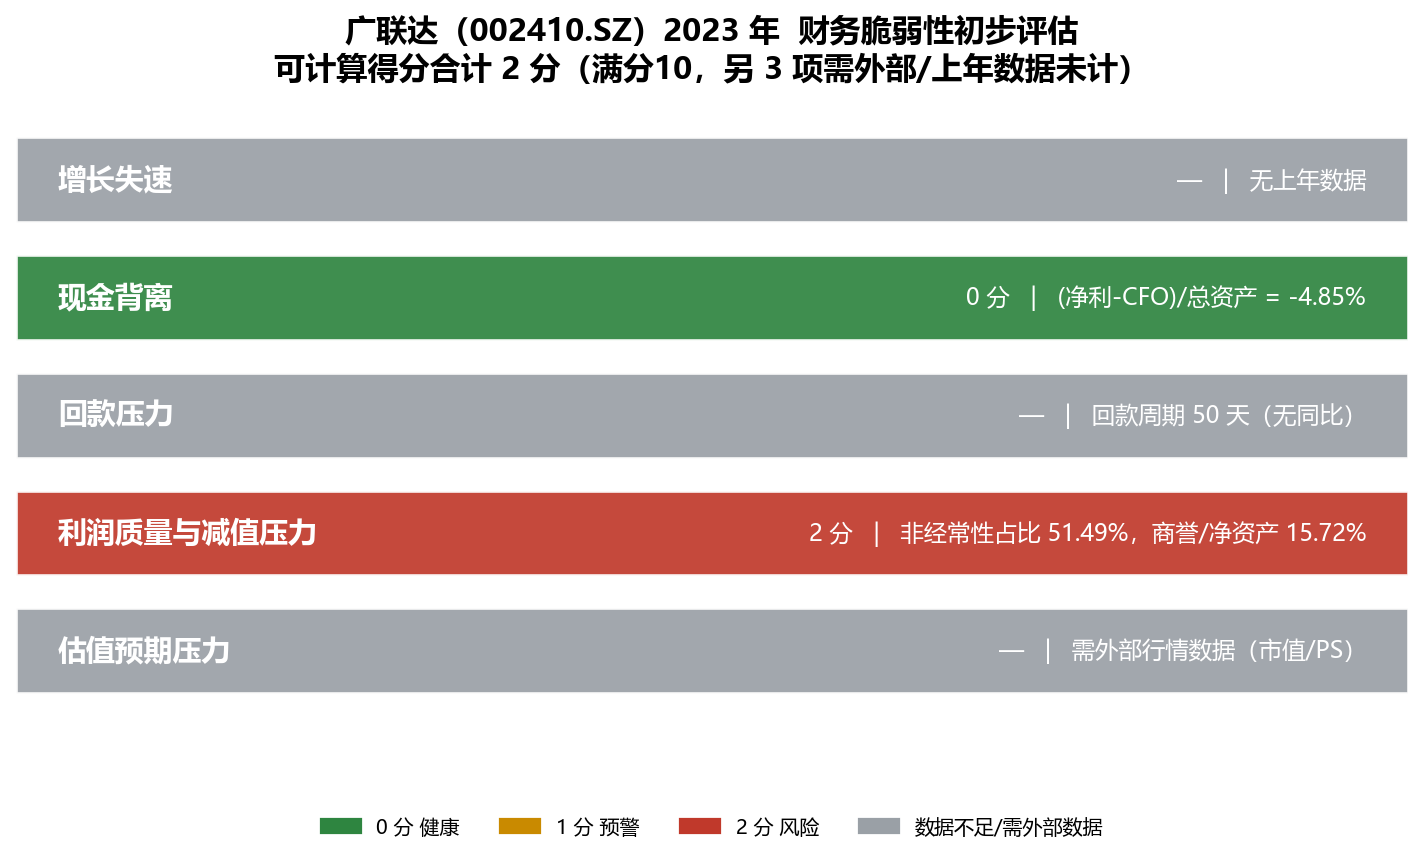
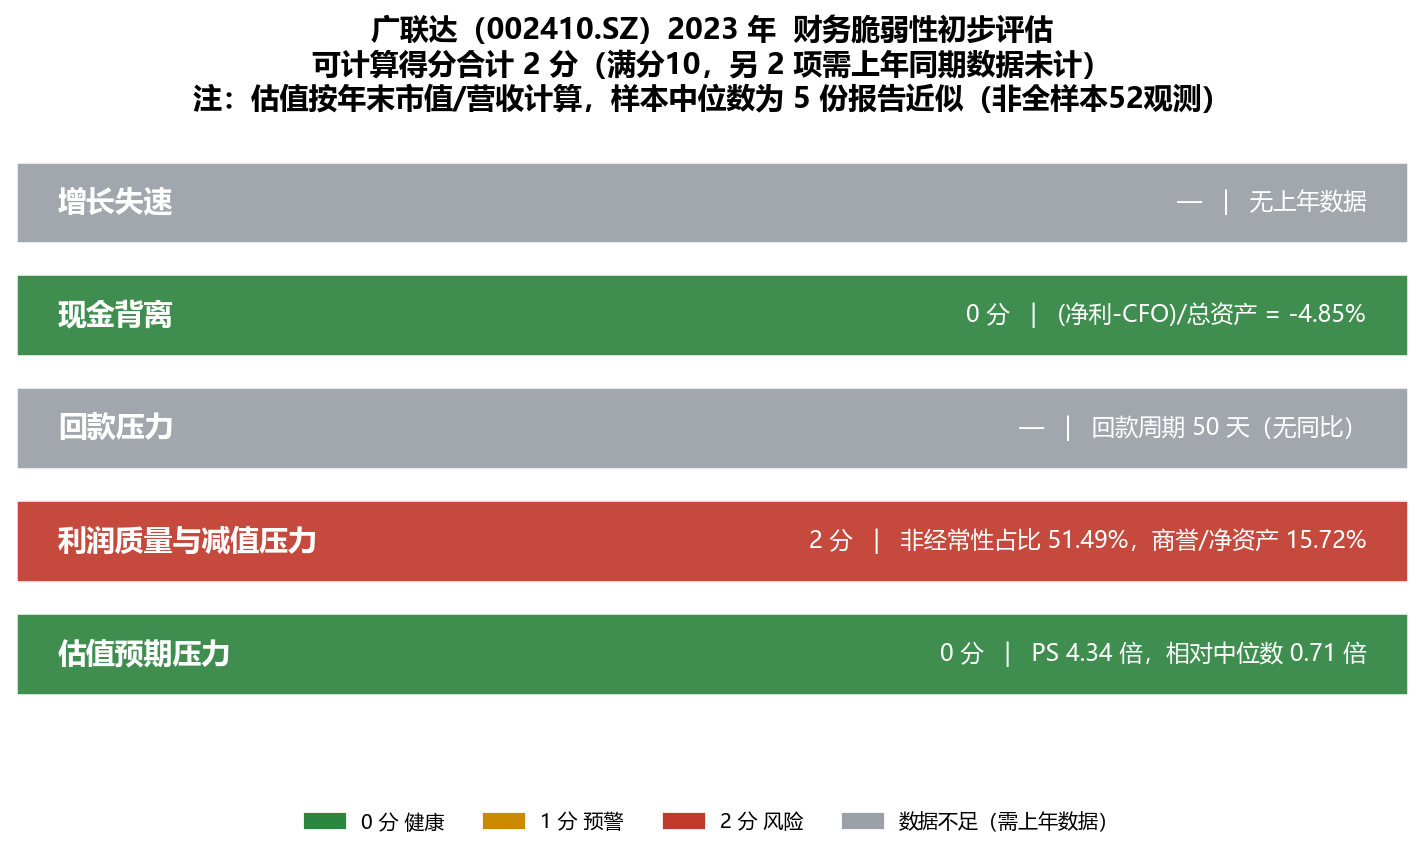
补齐估值预期压力指标，并新增三个演示案例评分图
- 指标5估值预期压力：用外部行情数据（年末收盘价×总股本，港股按汇率折人民币）
  计算PS_ttm、相对估值V及得分；样本中位数为5份报告近似值（非全样本52观测），
  已在图表标题与汇总表注明。
- 新增三个演示案例（芯海科技/完美世界/拓维信息）评分图及绘图脚本 plot_cases.py。

diff --git a/compute_and_plot.py b/compute_and_plot.py
@@ -17,13 +17,15 @@
     4. 利润质量与减值：非经常性损益占比；商誉/max(净资产, 1%×营业收入)
                       0分 非经常性≤20%且商誉≤10%；1分 任一在20~50%/10~30%；
                       2分 非经常性>50%或商誉>30%
-    5. 估值预期压力 ：PS_ttm / 样本中位数PS_ttm（需市值，财报内无）
+    5. 估值预期压力 ：PS_ttm / 样本中位数PS_ttm（市值来自外部行情）
 
 数据局限（如实标注，不编造）：
     - 指标 1/3 需要「上年同期」数据，仅金蝶（3 个年度）可算同比；
       商汤、广联达仅单年报告，同比无法计算。
     - 指标 1 的「样本中位数」仅有金蝶两年同比值（n=2），中位数为近似。
-    - 指标 5 需要市值（PS = 市值/营业收入），财报内不包含，标记为「需外部行情数据」。
+    - 指标 5 的市值＝年末收盘价×总股本（港股按年末汇率折人民币，见 CLOSE_PRICE /
+      TOTAL_SHARES / FX_HKD_CNY）；「样本中位数PS」为 5 份报告的近似值，
+      并非计划书要求的全样本 52 观测中位数，故 V 及估值得分仅供参考、不得强行定级。
     - 港股（金蝶/商汤）IFRS 不单独披露非经常性损益，按 0 处理并注明。
 
 输出：
@@ -66,6 +68,33 @@ COLOR_RISK = "#C0392B"     # 红
 COLOR_NA   = "#9AA0A6"     # 灰
 
 RISK_LEVELS = [(0, 2, "低"), (3, 5, "中"), (6, 8, "高"), (9, 10, "很高")]
+
+# ---------------------------------------------------------------------------
+# 外部行情数据（用于指标5 估值预期压力）
+# ---------------------------------------------------------------------------
+# 年末收盘价（元/股；港股为港元），来源：东方财富行情接口（不复权，商汤无分红故与复权一致）
+CLOSE_PRICE = {
+    ("金蝶国际", 2023): 11.38,
+    ("金蝶国际", 2024): 8.53,
+    ("金蝶国际", 2025): 13.29,
+    ("商汤-W", 2023): 1.16,
+    ("广联达", 2023): 17.14,
+}
+
+# 总股本（股）。商汤为 2023 年末值（港交所公告 33,468,925,000，现时已增发至 42.2 亿）；
+# 金蝶/广联达取现时点总股本（东方财富 f84），历史口径略异（漂移 <2%）
+TOTAL_SHARES = {
+    ("金蝶国际", 2023): 3514546771,
+    ("金蝶国际", 2024): 3514546771,
+    ("金蝶国际", 2025): 3514546771,
+    ("商汤-W", 2023): 33468925000,
+    ("广联达", 2023): 1651944342,
+}
+
+# 港元兑人民币（约，年均/年末中间价，来源：香港政府统计处 / 人民银行）
+FX_HKD_CNY = {2023: 0.905, 2024: 0.924, 2025: 0.922}
+
+HK_COMPANIES = {"金蝶国际", "商汤-W"}
 
 
 # ---------------------------------------------------------------------------
@@ -136,6 +165,20 @@ def score_quality(nr_ratio, gw_ratio):
     return max(nr_band, gw_band)
 
 
+def score_valuation(V, G):
+    """估值预期压力：V = PS_ttm / 样本中位数PS_ttm。"""
+    if V is None:
+        return None
+    if V <= 1.2:
+        return 0
+    if V <= 2.0:
+        return 1
+    # V > 2.0，需结合相对增长 G
+    if G is None or G == 0:
+        return None  # 边界待核验
+    return 1 if G > 0 else 2
+
+
 def risk_level(total):
     for lo, hi, name in RISK_LEVELS:
         if lo <= total <= hi:
@@ -157,6 +200,19 @@ def compute(data):
 
     yoy_vals = [v for v in yoy.values() if v is not None]
     median_yoy = float(np.median(yoy_vals)) if yoy_vals else None
+
+    # 指标5：先算各报告 PS_ttm（总市值/营业收入TTM），再取样本中位数
+    ps_ttm = {}
+    for (company, year), f in data.items():
+        rev = f["营业收入"]
+        close = CLOSE_PRICE.get((company, year))
+        shares = TOTAL_SHARES.get((company, year))
+        if rev and close and shares:
+            fx = FX_HKD_CNY.get(year, 1.0) if company in HK_COMPANIES else 1.0
+            mcap = close * shares * fx
+            ps_ttm[(company, year)] = mcap / rev
+    ps_vals = [v for v in ps_ttm.values() if v is not None]
+    median_ps = float(np.median(ps_vals)) if ps_vals else None
 
     results = []
     for company, code, year in REPORTS:
@@ -197,7 +253,11 @@ def compute(data):
         g4 = score_quality(nr_ratio, gw_ratio)
 
         # ---- 指标5 估值预期压力 ----
-        g5 = None  # 需市值，财报内无
+        ps = ps_ttm.get((company, year))
+        V = (ps / median_ps) if (ps is not None and median_ps) else None
+        # 相对增长 G 与指标1同源（营收同比增速 - 样本中位数）
+        G = (yv - median_yoy) if (yv is not None and median_yoy is not None) else None
+        g5 = score_valuation(V, G)
 
         scores = [g1, g2, g3, g4, g5]
         scored = [s for s in scores if s is not None]
@@ -216,7 +276,9 @@ def compute(data):
             "利润质量_非经常性损益占比": nr_ratio,
             "利润质量_商誉占比": gw_ratio,
             "利润质量_得分": g4,
-            "估值预期压力_PS_ttm": None,
+            "估值预期压力_PS_ttm": ps,
+            "估值预期压力_样本中位数PS": median_ps,
+            "估值预期压力_V": V,
             "估值预期压力_得分": g5,
             "可计算得分合计": total,
             "未评分指标数": sum(1 for s in scores if s is None),
@@ -257,7 +319,11 @@ def raw_str(r, idx):
         gw = r["利润质量_商誉占比"]
         return f"非经常性占比 {pct(nr)}，商誉/净资产 {pct(gw)}"
     # 估值
-    return "需外部行情数据（市值/PS）"
+    ps = r["估值预期压力_PS_ttm"]
+    v = r["估值预期压力_V"]
+    if ps is None:
+        return "—"
+    return f"PS {ps:.2f} 倍，相对中位数 {v:.2f} 倍"
 
 
 def score_label(s):
@@ -311,15 +377,16 @@ def plot_report(r):
     unscored = r["未评分指标数"]
     if total is not None:
         lvl = risk_level(total)
-        total_txt = f"可计算得分合计 {total} 分（满分10，另 {unscored} 项需外部/上年数据未计）"
-        title = f"{company}（{code}）{year} 年  财务脆弱性初步评估\n{total_txt}"
+        total_txt = f"可计算得分合计 {total} 分（满分10，另 {unscored} 项需上年同期数据未计）"
+        note = "注：估值按年末市值/营收计算，样本中位数为 5 份报告近似（非全样本52观测）"
+        title = f"{company}（{code}）{year} 年  财务脆弱性初步评估\n{total_txt}\n{note}"
     else:
         title = f"{company}（{code}）{year} 年  财务脆弱性初步评估（数据不足）"
-    ax.set_title(title, fontsize=14, fontweight="bold", pad=14)
+    ax.set_title(title, fontsize=13, fontweight="bold", pad=12)
 
     # 图例
     legend_labels = [("0 分 健康", COLOR_GOOD), ("1 分 预警", COLOR_WARN),
-                     ("2 分 风险", COLOR_RISK), ("数据不足/需外部数据", COLOR_NA)]
+                     ("2 分 风险", COLOR_RISK), ("数据不足（需上年数据）", COLOR_NA)]
     handles = [plt.Rectangle((0, 0), 1, 1, color=c) for _, c in legend_labels]
     ax.legend(handles, [t for t, _ in legend_labels], loc="lower center",
               bbox_to_anchor=(0.5, -0.22), ncol=4, frameon=False, fontsize=9)

diff --git a/plot_cases.py b/plot_cases.py
@@ -1,0 +1,143 @@
+# -*- coding: utf-8 -*-
+"""
+三个演示案例的脆弱性评分图
+============================
+
+依据《第七部分 数据来源、演示案例与合规》文字稿（7.2 样本验证）中的三个案例，
+用与 compute_and_plot.py 完全相同的评分卡样式（横向条形 + 状态色 + 图例）绘制：
+
+    案例一  芯海科技  2022 年报    总分 8 · 高风险
+    案例二  完美世界  2024 一季报  总分 6 · 高风险
+    案例三  拓维信息  2023 年报    总分 5 · 中风险
+
+数据只取自文字稿原文，未做任何编造；原文未逐项列出的指标以灰色「—」标注。
+完美世界 2024 一季报「利润质量」「估值」两项得分据「三项各 2 分、总分 6 分」反推为 0。
+
+输出：脆弱性评分_<公司>_<期间>.png（3 张）
+"""
+
+import os
+import matplotlib
+matplotlib.use("Agg")
+import matplotlib.pyplot as plt
+
+plt.rcParams["font.sans-serif"] = ["Microsoft YaHei", "SimHei", "SimSun"]
+plt.rcParams["axes.unicode_minus"] = False
+
+BASE = r"D:\python\Financial-Report-Analyzer"
+
+IND_NAMES = ["增长失速", "现金背离", "回款压力", "利润质量与减值压力", "估值预期压力"]
+
+# 状态色（与 compute_and_plot.py 一致）
+COLOR_GOOD = "#2E8540"     # 绿
+COLOR_WARN = "#C98A00"     # 琥珀
+COLOR_RISK = "#C0392B"     # 红
+COLOR_NA = "#9AA0A6"       # 灰
+
+# 三个案例：公司、代码、报告期、风险等级、总分、[(得分, 关键事实)×5]、标题补充说明
+CASES = [
+    (
+        "芯海科技", "688595.SH", "2022 年报", "高风险", 8,
+        [
+            (2, "营收同比 -15.30%"),
+            (2, "净利 +0.42 亿 vs 经营现金流 -0.85 亿"),
+            (2, "存货 2.41→3.52 亿（+46%）"),
+            (2, "非经常性损益占比 61.9%"),
+            (0, "市销率处样本合理区间，未触发"),
+        ],
+        "",
+    ),
+    (
+        "完美世界", "002624.SZ", "2024 一季报", "高风险", 6,
+        [
+            (2, "营收同比 -30.19%"),
+            (2, "净利 -0.30 亿，经营现金流 -3.55 亿"),
+            (2, "触发（原文未列明细）"),
+            (0, "未触发（据总分反推）"),
+            (0, "未触发（据总分反推）"),
+        ],
+        "（增长失速 / 现金背离 / 回款压力各 2 分）",
+    ),
+    (
+        "拓维信息", "002261.SZ", "2023 年报", "中风险", 5,
+        [
+            (None, "原文未逐项列出"),
+            (2, "净利 +0.45 亿 vs 经营现金流 -11.70 亿（24.83%）"),
+            (None, "原文未逐项列出"),
+            (2, "非经常性损益占比 134.85%"),
+            (None, "原文未逐项列出"),
+        ],
+        "（现金背离、利润质量各 2 分；另 1 分在其余三项）",
+    ),
+]
+
+
+def status_color(s):
+    if s == 0:
+        return COLOR_GOOD
+    if s == 1:
+        return COLOR_WARN
+    if s == 2:
+        return COLOR_RISK
+    return COLOR_NA
+
+
+def score_label(s):
+    if s is None:
+        return "—"
+    return f"{s} 分"
+
+
+def plot_case(company, code, period, risk, total, items, detail):
+    fig, ax = plt.subplots(figsize=(9.5, 5.8), dpi=160)
+    fig.patch.set_facecolor("white")
+    ax.set_facecolor("white")
+
+    n = len(IND_NAMES)
+    ypos = list(range(n))[::-1]  # 自上而下
+
+    for y, name, (s, fact) in zip(ypos, IND_NAMES, items):
+        c = status_color(s)
+        ax.barh(y, 1.0, height=0.72, color=c, alpha=0.92,
+                edgecolor="white", linewidth=1.2, zorder=2)
+        # 指标名（左）
+        ax.text(0.03, y, name, va="center", ha="left",
+                color="white", fontsize=13, fontweight="bold", zorder=3)
+        # 得分 + 关键事实（右）
+        txt = f"{score_label(s)}   |   {fact}"
+        ax.text(0.97, y, txt, va="center", ha="right",
+                color="white", fontsize=9.5, zorder=3)
+
+    ax.set_xlim(0, 1)
+    ax.set_ylim(-0.6, n - 0.4)
+    ax.set_yticks([])
+    ax.set_xticks([])
+    for sp in ["top", "right", "bottom", "left"]:
+        ax.spines[sp].set_visible(False)
+
+    ax.set_title(f"{company}（{code}）{period}  财务脆弱性评分\n总分 {total} 分 · {risk}{detail}",
+                 fontsize=14, fontweight="bold", pad=14)
+
+    # 图例
+    legend_labels = [("0 分 健康", COLOR_GOOD), ("1 分 预警", COLOR_WARN),
+                     ("2 分 风险", COLOR_RISK), ("原文未逐项列出", COLOR_NA)]
+    handles = [plt.Rectangle((0, 0), 1, 1, color=c) for _, c in legend_labels]
+    ax.legend(handles, [t for t, _ in legend_labels], loc="lower center",
+              bbox_to_anchor=(0.5, -0.20), ncol=4, frameon=False, fontsize=9)
+
+    fig.tight_layout()
+    out = os.path.join(BASE, f"脆弱性评分_{company}_{period.replace(' ', '')}.png")
+    fig.savefig(out, bbox_inches="tight", facecolor="white")
+    plt.close(fig)
+    return out
+
+
+def main():
+    paths = [plot_case(c, code, period, risk, total, items, detail)
+             for c, code, period, risk, total, items, detail in CASES]
+    return paths
+
+
+if __name__ == "__main__":
+    for p in main():
+        print("generated:", p)
